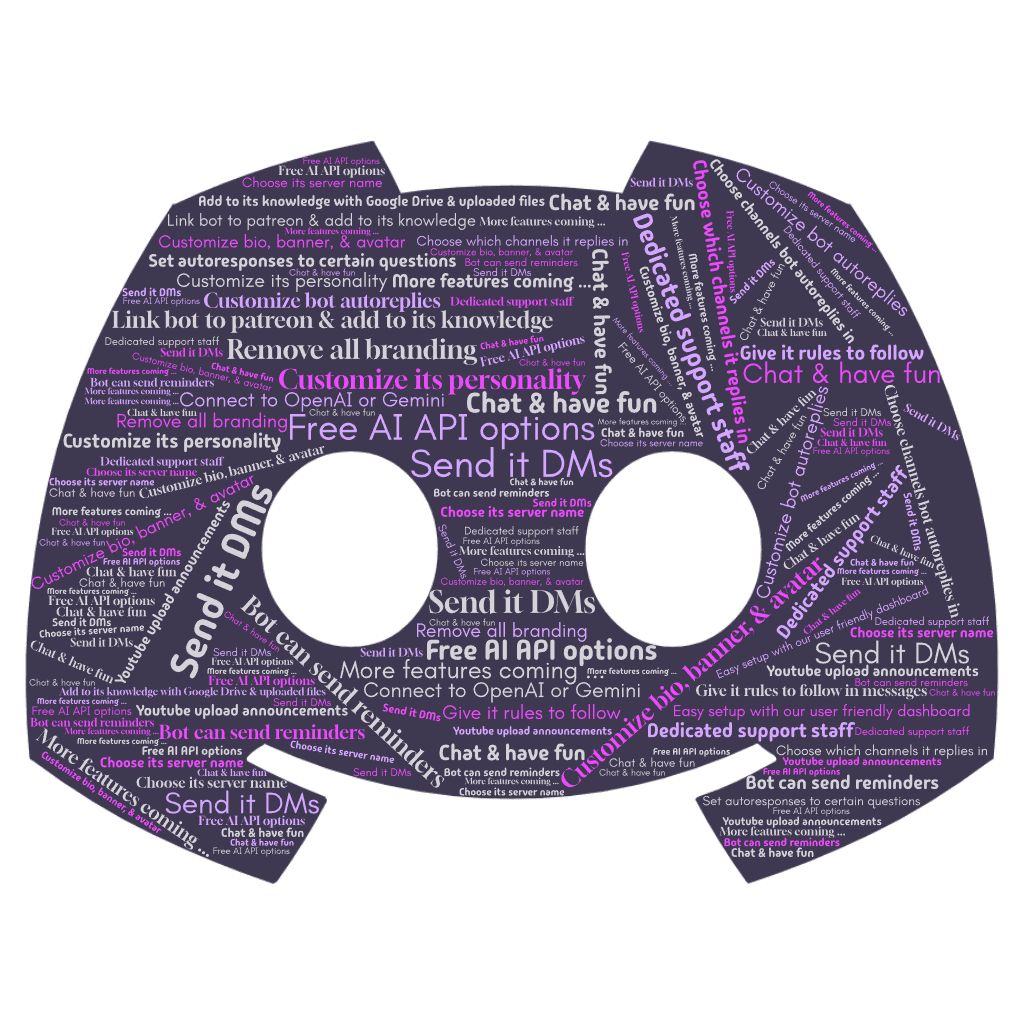
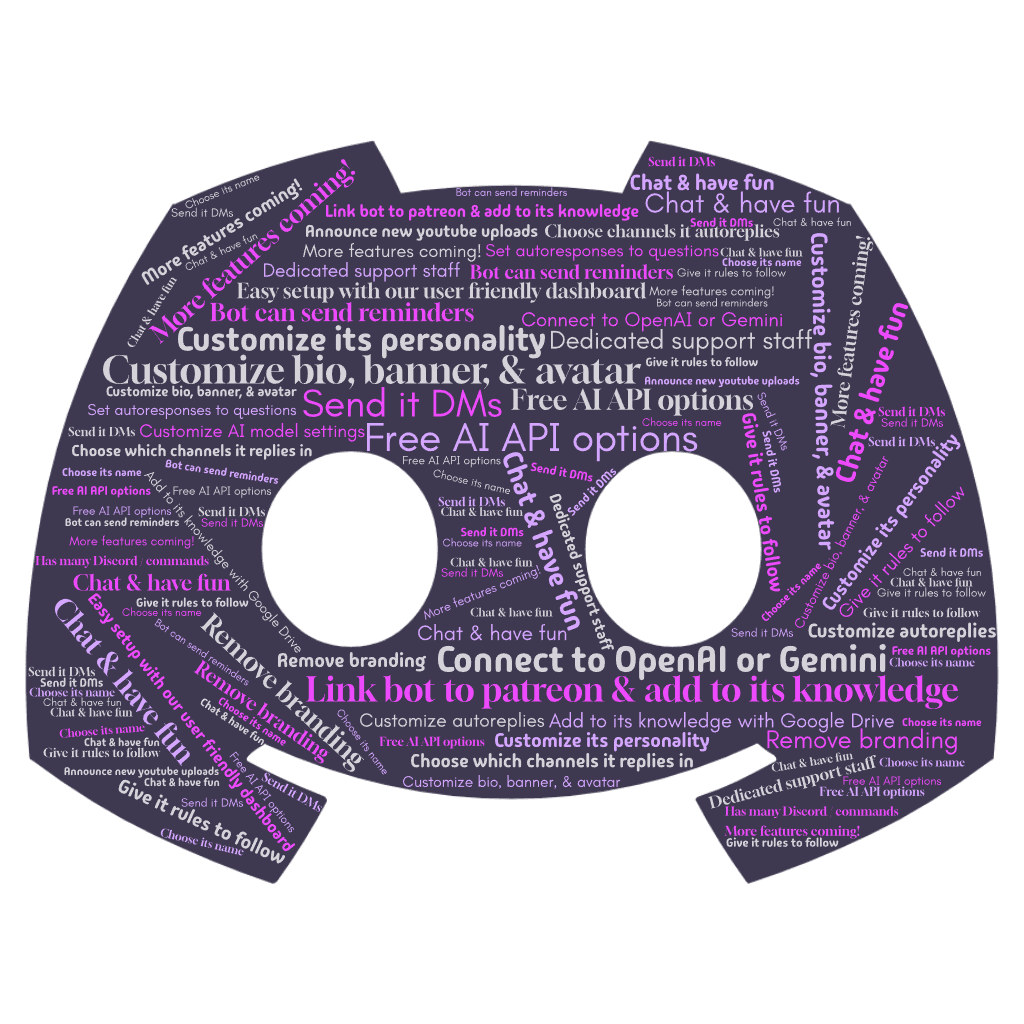
Refresh homepage word cloud artwork

Changed region(s): [[0.0312, 0.1562, 0.9688, 0.8438]]

diff --git a/dashboard/index.html b/dashboard/index.html
@@ -4,11 +4,11 @@
 <main>
 <section id="setup-notice" class="notice" hidden></section>
 <section id="server-screen">
-  <div class="landing-hero"><div class="intro"><p class="eyebrow">SERVER CONTROL CENTER</p><h1><span class="heading-line">Choose a server</span><br><em>to get started.</em></h1><p class="sub">Your community has loads of fun incoming with our bot powered by AI with a fully customizable personality.</p></div><figure class="feature-wordcloud feature-wordcloud-hero"><img src="/assets/wordcloud.png?v=5" alt="TheSmartBot feature word cloud: customizable bio, banner and avatar, Gemini integration, reminders, YouTube notifications, server knowledge, DMs, support staff, and more."></figure></div>
+  <div class="landing-hero"><div class="intro"><p class="eyebrow">SERVER CONTROL CENTER</p><h1><span class="heading-line">Choose a server</span><br><em>to get started.</em></h1><p class="sub">Your community has loads of fun incoming with our bot powered by AI with a fully customizable personality.</p></div><figure class="feature-wordcloud feature-wordcloud-hero"><img src="/assets/wordcloud.png?v=6" alt="TheSmartBot feature word cloud: customizable bio, banner and avatar, Gemini integration, reminders, YouTube notifications, server knowledge, DMs, support staff, and more."></figure></div>
   <div id="signed-out" class="signed-out"><div class="empty-icon">✦</div><h2>Sign in to see your servers</h2><p>We'll only show servers you manage where TheSmartBot is already installed.</p></div>
   <div id="server-list" class="server-grid" hidden></div>
   <div id="empty-servers" class="empty-state" hidden><div class="empty-icon">+</div><h2>No connected servers yet</h2><p>Install TheSmartBot in a server you manage, then come back here to customize it.</p><a id="invite" class="button" href="/auth/invite">Add TheSmartBot to a server</a><small class="empty-refresh-note">If your server doesn't appear after you've connected, try to refresh this page.</small></div>
-  <figure class="feature-wordcloud feature-wordcloud-empty" aria-hidden="true"><img src="/assets/wordcloud.png?v=5" alt=""></figure>
+  <figure class="feature-wordcloud feature-wordcloud-empty" aria-hidden="true"><img src="/assets/wordcloud.png?v=6" alt=""></figure>
   <p id="server-blessing" class="server-blessing" hidden>Stay up and stay blessed.</p>
 </section>
 <section id="workspace" hidden>

diff --git a/functions/_lib/releases.js b/functions/_lib/releases.js
@@ -2,6 +2,9 @@
 // Earlier version labels were assigned when Version History was introduced;
 // their timestamps are Git records, not confirmed deployment times.
 export const releases = [
+  { version: "2.5.4", at: "2026-10-22T01:55:02Z", historical: false, changes: [
+    "Updated the homepage word cloud artwork."
+  ] },
   { version: "2.5.3", at: "2026-10-21T23:56:05Z", historical: false, changes: [
     "Updated the homepage word cloud artwork."
   ] },
